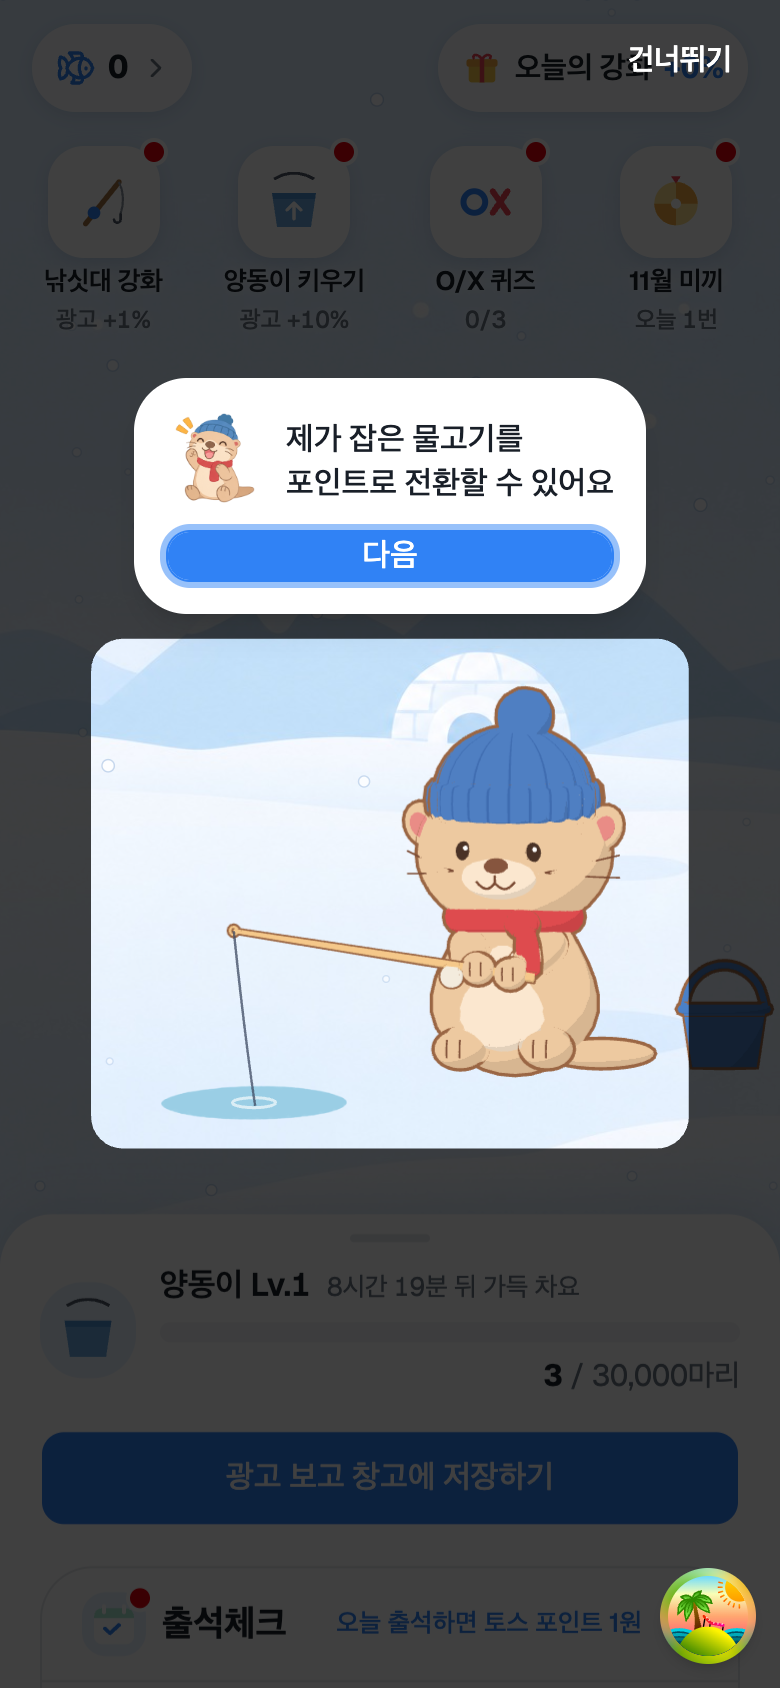
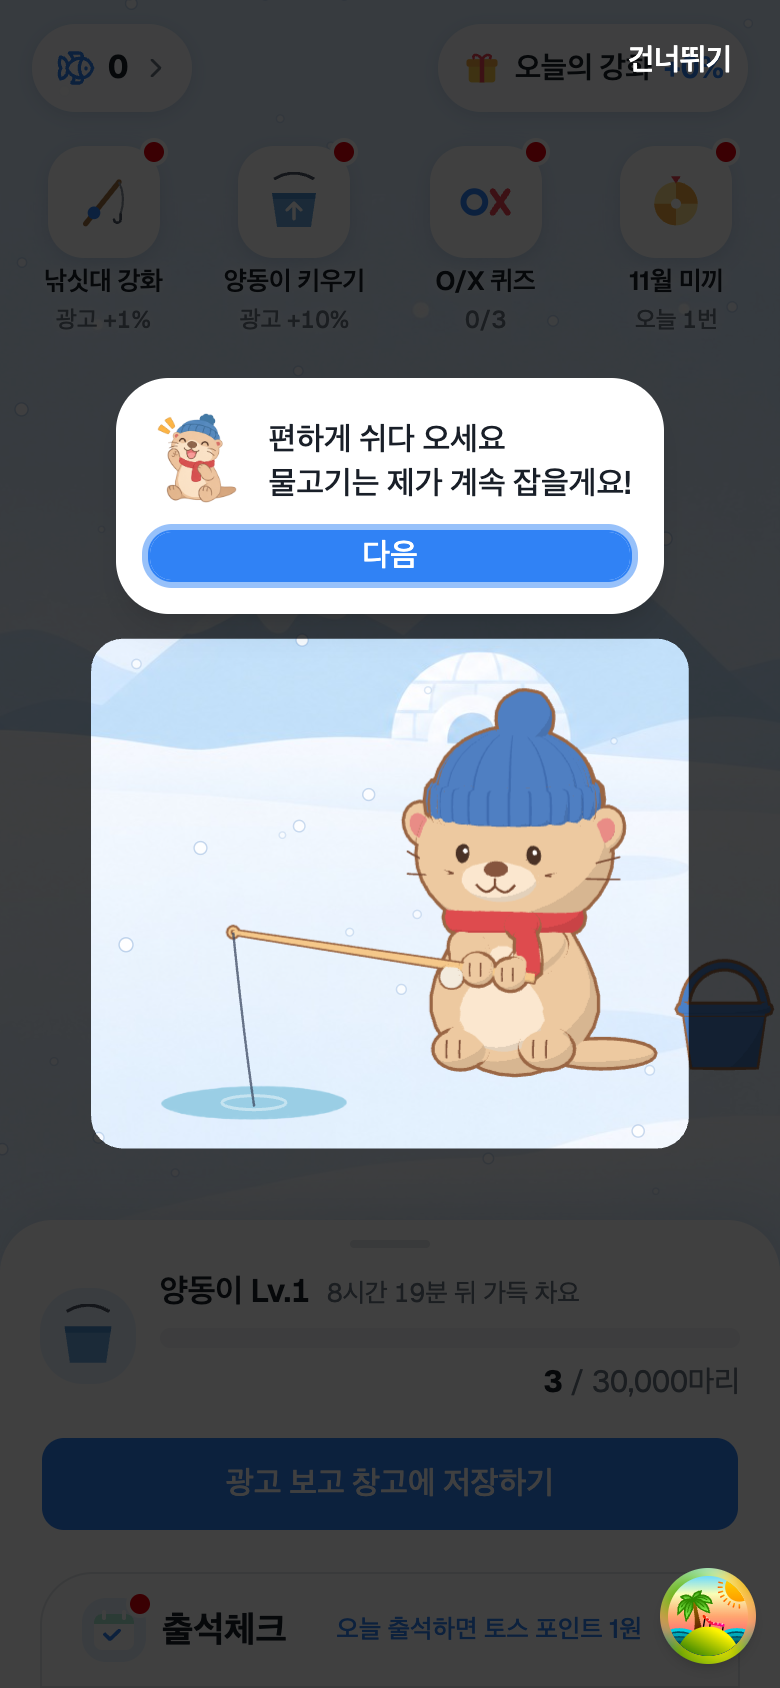
feat(web): 온보딩 첫 문구를 방치해도 해달이 잡는다는 말로 바꾼다
'편하게 쉬다 오세요 / 물고기는 제가 계속 잡을게요!'

diff --git a/apps/web/src/features/welcome-tutorial/model/steps.ts b/apps/web/src/features/welcome-tutorial/model/steps.ts
@@ -52,7 +52,7 @@ export const TUTORIAL_STEPS: readonly TutorialStep[] = [
   {
     id: 'greet',
     target: 'otter',
-    message: '제가 잡은 물고기를\n포인트로 전환할 수 있어요',
+    message: '편하게 쉬다 오세요\n물고기는 제가 계속 잡을게요!',
     action: { type: 'info' },
     bubble: 'above',
   },

diff --git a/docs/design/tutorial.md b/docs/design/tutorial.md
@@ -90,7 +90,7 @@
 오른쪽 위에 **건너뛰기**를 항상 둔다.
 
 ```
-1. 해달 낚시      "제가 잡은 물고기를 포인트로 전환할 수 있어요"            다음
+1. 해달 낚시      "편하게 쉬다 오세요 / 물고기는 제가 계속 잡을게요!"       다음
      |
 2. 해먹 게이지    "잡은 물고기는 해먹에 쌓여요"                               다음
      |
